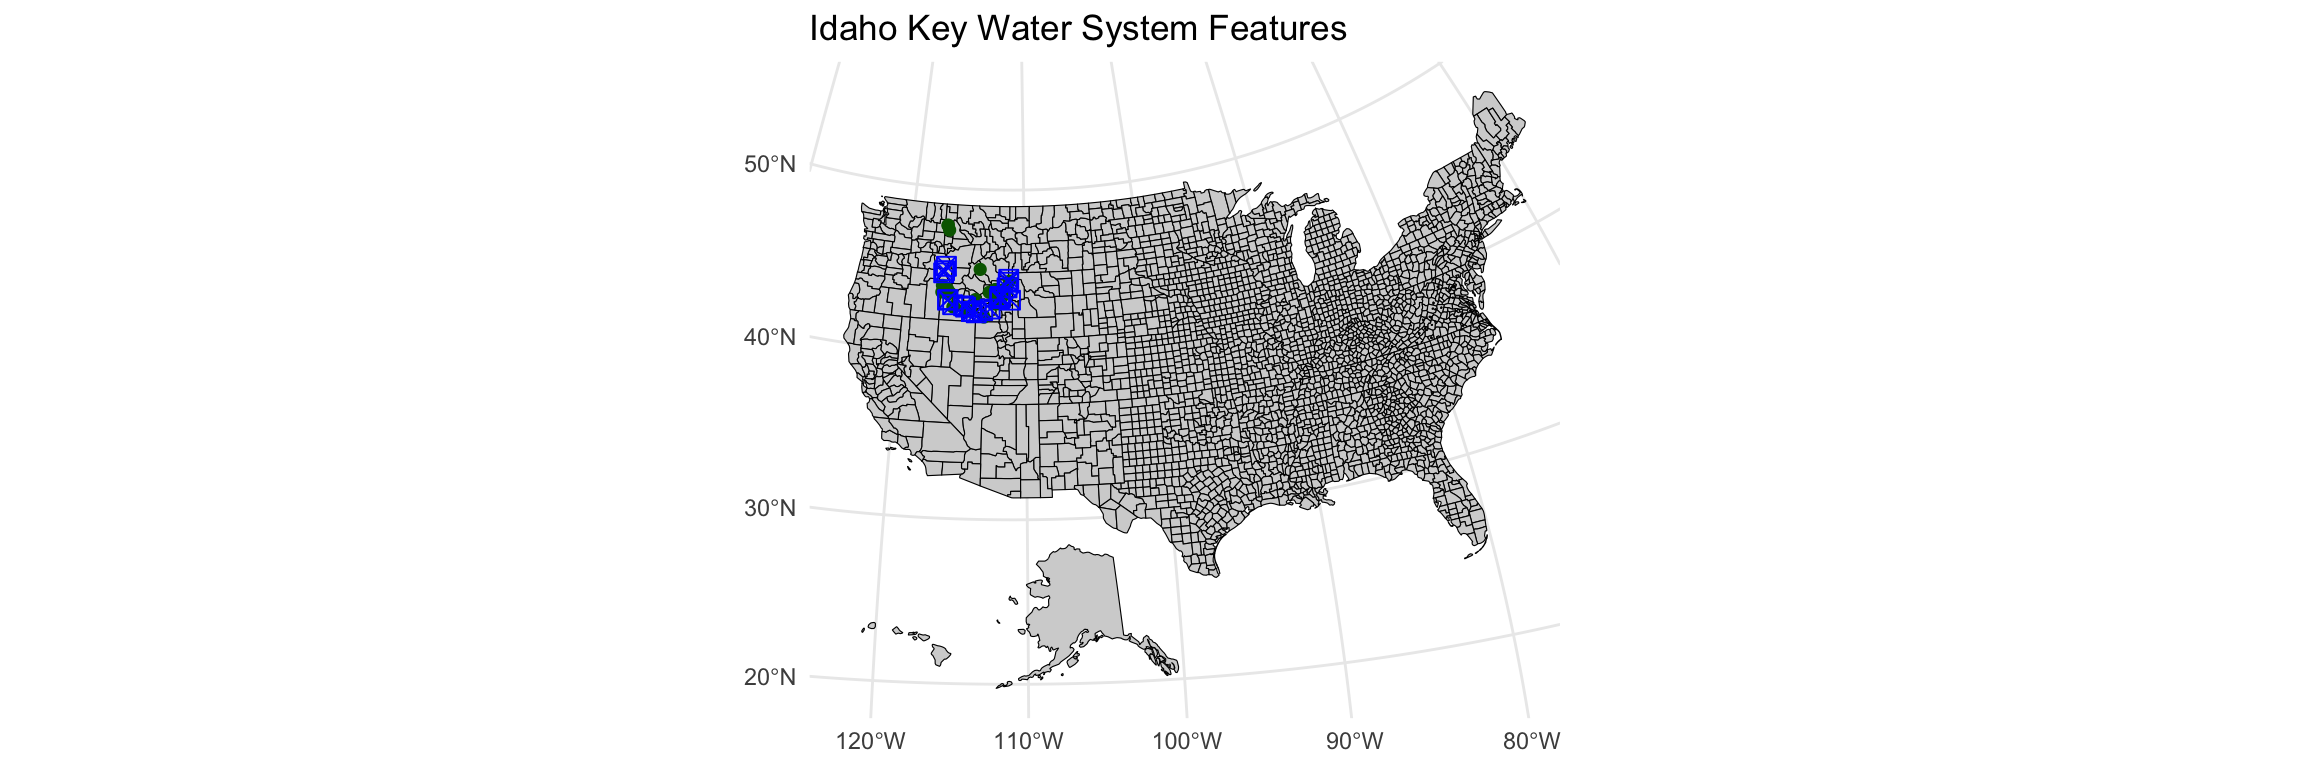
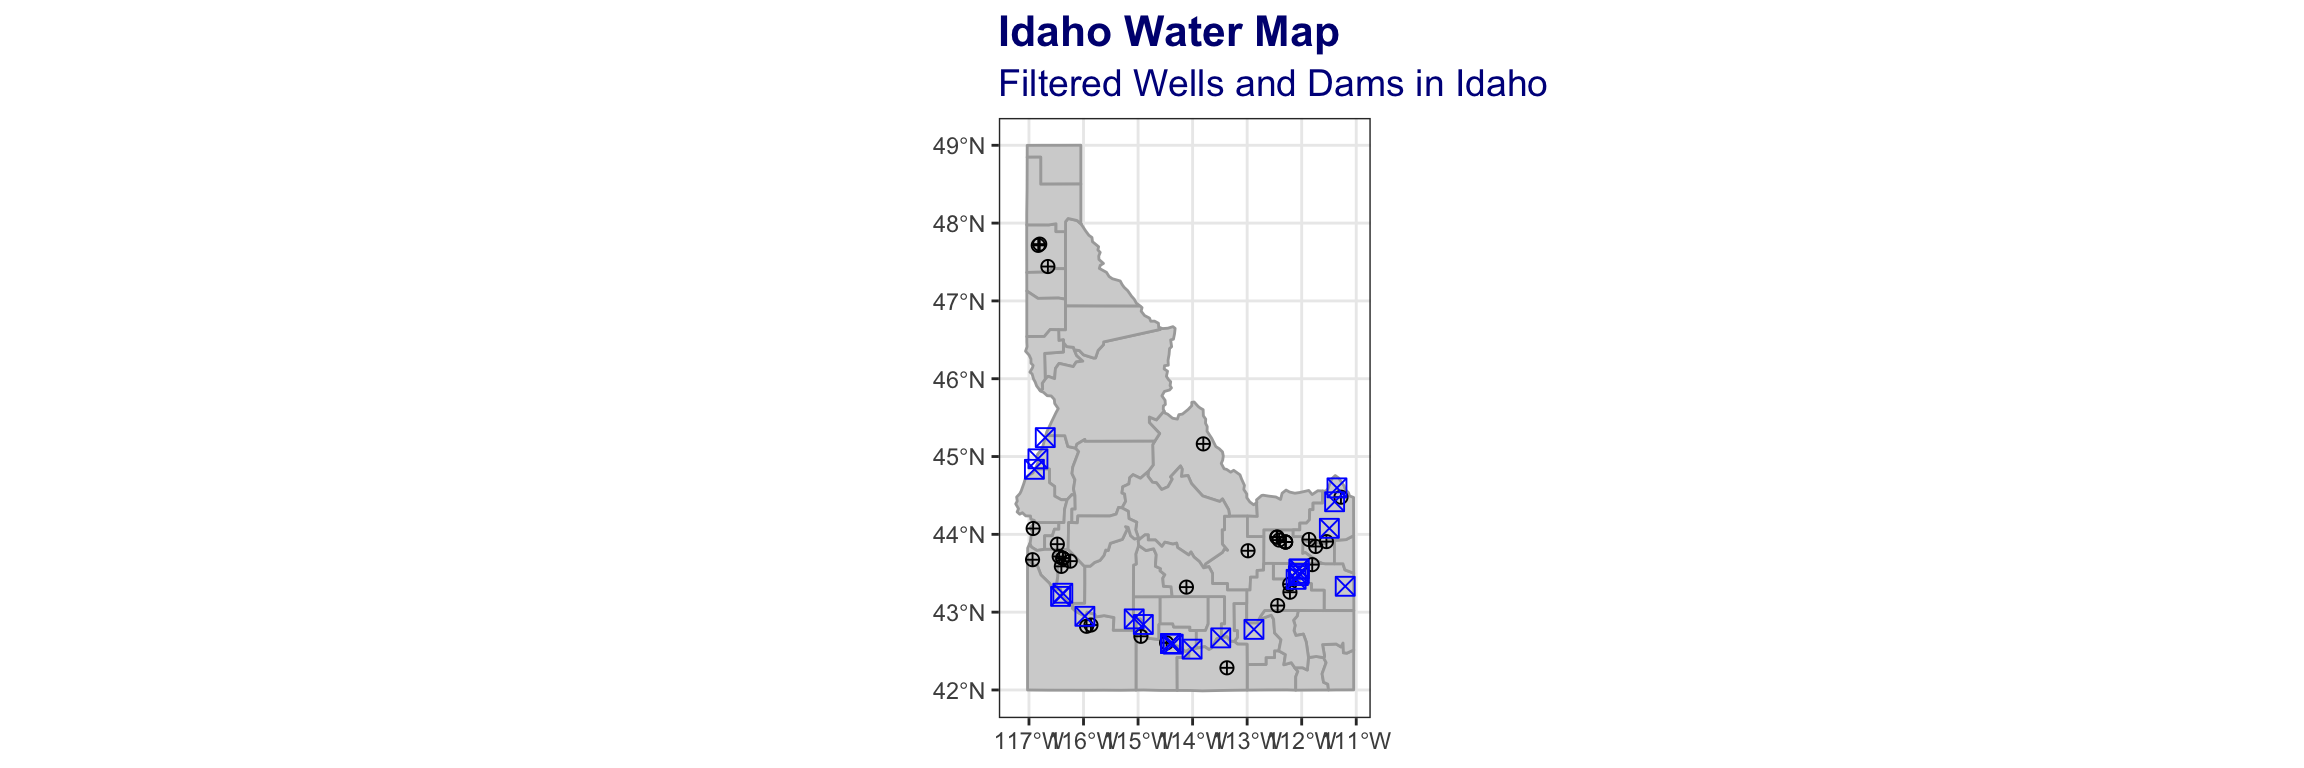
Add

diff --git a/week_08/W08 Task - Idaho Water.html b/week_08/W08 Task - Idaho Water.html
@@ -7,7 +7,7 @@
 <meta name="viewport" content="width=device-width, initial-scale=1.0, user-scalable=yes">
 
 <meta name="author" content="Scott Townsend">
-<meta name="dcterms.date" content="2024-11-07">
+<meta name="dcterms.date" content="2024-11-12">
 
 <title>W08 Task - Idaho Water</title>
 <style>
@@ -98,7 +98,7 @@ pre > code.sourceCode > span > a:first-child::before { text-decoration: underlin
     <div>
     <div class="quarto-title-meta-heading">Published</div>
     <div class="quarto-title-meta-contents">
-      <p class="date">November 7, 2024</p>
+      <p class="date">November 12, 2024</p>
     </div>
   </div>
   
@@ -131,19 +131,16 @@ pre > code.sourceCode > span > a:first-child::before { text-decoration: underlin
 <summary>Code</summary>
 <div class="sourceCode cell-code" id="cb2"><pre class="sourceCode numberSource r number-lines code-with-copy"><code class="sourceCode r"><span id="cb2-1"><a href="#cb2-1"></a>url1 <span class="ot">&lt;-</span> <span class="st">"https://byuistats.github.io/M335/data/Wells.zip"</span></span>
 <span id="cb2-2"><a href="#cb2-2"></a>url2 <span class="ot">&lt;-</span> <span class="st">"https://byuistats.github.io/M335/data/Idaho_Dams.zip"</span></span>
-<span id="cb2-3"><a href="#cb2-3"></a>url3 <span class="ot">&lt;-</span> <span class="st">"https://byuistats.github.io/M335/data/water.zip"</span></span>
-<span id="cb2-4"><a href="#cb2-4"></a>url4 <span class="ot">&lt;-</span> <span class="st">"https://byuistats.github.io/M335/data/shp.zip"</span></span>
-<span id="cb2-5"><a href="#cb2-5"></a></span>
-<span id="cb2-6"><a href="#cb2-6"></a>temp_dir <span class="ot">&lt;-</span> <span class="fu">tempdir</span>()</span>
-<span id="cb2-7"><a href="#cb2-7"></a></span>
-<span id="cb2-8"><a href="#cb2-8"></a>temp_zip <span class="ot">&lt;-</span> <span class="fu">file.path</span>(temp_dir, <span class="st">"Wells.zip"</span>)</span>
-<span id="cb2-9"><a href="#cb2-9"></a><span class="fu">download.file</span>(url1, temp_zip, <span class="at">mode =</span> <span class="st">"wb"</span>)</span>
-<span id="cb2-10"><a href="#cb2-10"></a><span class="fu">unzip</span>(temp_zip, <span class="at">exdir =</span> temp_dir)</span>
-<span id="cb2-11"><a href="#cb2-11"></a>wells_data <span class="ot">&lt;-</span> <span class="fu">st_read</span>(<span class="fu">file.path</span>(temp_dir, <span class="st">"Wells.shp"</span>))</span></code><button title="Copy to Clipboard" class="code-copy-button"><i class="bi"></i></button></pre></div>
+<span id="cb2-3"><a href="#cb2-3"></a>temp_dir <span class="ot">&lt;-</span> <span class="fu">tempdir</span>()</span>
+<span id="cb2-4"><a href="#cb2-4"></a></span>
+<span id="cb2-5"><a href="#cb2-5"></a>temp_zip <span class="ot">&lt;-</span> <span class="fu">file.path</span>(temp_dir, <span class="st">"Wells.zip"</span>)</span>
+<span id="cb2-6"><a href="#cb2-6"></a><span class="fu">download.file</span>(url1, temp_zip, <span class="at">mode =</span> <span class="st">"wb"</span>)</span>
+<span id="cb2-7"><a href="#cb2-7"></a><span class="fu">unzip</span>(temp_zip, <span class="at">exdir =</span> temp_dir)</span>
+<span id="cb2-8"><a href="#cb2-8"></a>wells_data <span class="ot">&lt;-</span> <span class="fu">st_read</span>(<span class="fu">file.path</span>(temp_dir, <span class="st">"Wells.shp"</span>))</span></code><button title="Copy to Clipboard" class="code-copy-button"><i class="bi"></i></button></pre></div>
 </details>
 <div class="cell-output cell-output-stdout">
 <pre><code>Reading layer `Wells' from data source 
-  `/private/var/folders/zs/zycd14f96ks5gpx0bsb97xtr0000gn/T/RtmplfTWnP/Wells.shp' 
+  `/private/var/folders/zs/zycd14f96ks5gpx0bsb97xtr0000gn/T/RtmpWrX1kQ/Wells.shp' 
   using driver `ESRI Shapefile'
 Simple feature collection with 195091 features and 33 fields
 Geometry type: POINT
@@ -160,7 +157,7 @@ Geodetic CRS:  WGS 84</code></pre>
 </details>
 <div class="cell-output cell-output-stdout">
 <pre><code>Reading layer `Dam_Safety' from data source 
-  `/private/var/folders/zs/zycd14f96ks5gpx0bsb97xtr0000gn/T/RtmplfTWnP/Dam_Safety.shp' 
+  `/private/var/folders/zs/zycd14f96ks5gpx0bsb97xtr0000gn/T/RtmpWrX1kQ/Dam_Safety.shp' 
   using driver `ESRI Shapefile'
 Simple feature collection with 1127 features and 23 fields
 Geometry type: POINT
@@ -170,46 +167,10 @@ Geodetic CRS:  WGS 84</code></pre>
 </div>
 <details class="code-fold">
 <summary>Code</summary>
-<div class="sourceCode cell-code" id="cb6"><pre class="sourceCode numberSource r number-lines code-with-copy"><code class="sourceCode r"><span id="cb6-1"><a href="#cb6-1"></a>temp_zip <span class="ot">&lt;-</span> <span class="fu">file.path</span>(temp_dir, <span class="st">"water.zip"</span>)</span>
-<span id="cb6-2"><a href="#cb6-2"></a><span class="fu">download.file</span>(url3, temp_zip, <span class="at">mode =</span> <span class="st">"wb"</span>)</span>
-<span id="cb6-3"><a href="#cb6-3"></a><span class="fu">unzip</span>(temp_zip, <span class="at">exdir =</span> temp_dir)</span>
-<span id="cb6-4"><a href="#cb6-4"></a>water_data <span class="ot">&lt;-</span> <span class="fu">st_read</span>(<span class="fu">file.path</span>(temp_dir, <span class="st">"hyd250.shp"</span>))</span></code><button title="Copy to Clipboard" class="code-copy-button"><i class="bi"></i></button></pre></div>
-</details>
-<div class="cell-output cell-output-stdout">
-<pre><code>Reading layer `hyd250' from data source 
-  `/private/var/folders/zs/zycd14f96ks5gpx0bsb97xtr0000gn/T/RtmplfTWnP/hyd250.shp' 
-  using driver `ESRI Shapefile'
-Simple feature collection with 30050 features and 26 fields
-Geometry type: LINESTRING
-Dimension:     XY
-Bounding box:  xmin: 2241685 ymin: 1198722 xmax: 2743850 ymax: 1981814
-Projected CRS: NAD83 / Idaho Transverse Mercator</code></pre>
-</div>
-<details class="code-fold">
-<summary>Code</summary>
-<div class="sourceCode cell-code" id="cb8"><pre class="sourceCode numberSource r number-lines code-with-copy"><code class="sourceCode r"><span id="cb8-1"><a href="#cb8-1"></a>temp_zip <span class="ot">&lt;-</span> <span class="fu">file.path</span>(temp_dir, <span class="st">"shp.zip"</span>)</span>
-<span id="cb8-2"><a href="#cb8-2"></a><span class="fu">download.file</span>(url4, temp_zip, <span class="at">mode =</span> <span class="st">"wb"</span>)</span>
-<span id="cb8-3"><a href="#cb8-3"></a><span class="fu">unzip</span>(temp_zip, <span class="at">exdir =</span> temp_dir)</span>
-<span id="cb8-4"><a href="#cb8-4"></a>county_data <span class="ot">&lt;-</span> <span class="fu">st_read</span>(<span class="fu">file.path</span>(temp_dir, <span class="st">"County-AK-HI-Moved-USA-Map.shp"</span>))</span></code><button title="Copy to Clipboard" class="code-copy-button"><i class="bi"></i></button></pre></div>
-</details>
-<div class="cell-output cell-output-stdout">
-<pre><code>Reading layer `County-AK-HI-Moved-USA-Map' from data source 
-  `/private/var/folders/zs/zycd14f96ks5gpx0bsb97xtr0000gn/T/RtmplfTWnP/County-AK-HI-Moved-USA-Map.shp' 
-  using driver `ESRI Shapefile'
-Simple feature collection with 3115 features and 15 fields
-Geometry type: MULTIPOLYGON
-Dimension:     XY
-Bounding box:  xmin: -2573301 ymin: -1889441 xmax: 2256474 ymax: 1565782
-Projected CRS: Albers</code></pre>
-</div>
-<details class="code-fold">
-<summary>Code</summary>
-<div class="sourceCode cell-code" id="cb10"><pre class="sourceCode numberSource r number-lines code-with-copy"><code class="sourceCode r"><span id="cb10-1"><a href="#cb10-1"></a>wells_filtered <span class="ot">&lt;-</span> wells_data <span class="sc">%&gt;%</span> <span class="fu">filter</span>(Production <span class="sc">&gt;</span> <span class="dv">5000</span>)</span>
-<span id="cb10-2"><a href="#cb10-2"></a>dams_filtered <span class="ot">&lt;-</span> Idaho_Dams_data <span class="sc">%&gt;%</span> <span class="fu">filter</span>(SurfaceAre <span class="sc">&gt;</span> <span class="dv">50</span>, Source <span class="sc">%in%</span> <span class="fu">c</span>(<span class="st">"SNAKE RIVER"</span>, <span class="st">"HENRYS FORK"</span>))</span>
-<span id="cb10-3"><a href="#cb10-3"></a></span>
-<span id="cb10-4"><a href="#cb10-4"></a>county_proj <span class="ot">&lt;-</span> <span class="fu">st_transform</span>(county_data, <span class="at">crs =</span> <span class="dv">26912</span>)</span>
-<span id="cb10-5"><a href="#cb10-5"></a>wells_proj <span class="ot">&lt;-</span> <span class="fu">st_transform</span>(wells_filtered, <span class="at">crs =</span> <span class="dv">26912</span>)</span>
-<span id="cb10-6"><a href="#cb10-6"></a>dams_proj <span class="ot">&lt;-</span> <span class="fu">st_transform</span>(dams_filtered, <span class="at">crs =</span> <span class="dv">26912</span>)</span></code><button title="Copy to Clipboard" class="code-copy-button"><i class="bi"></i></button></pre></div>
+<div class="sourceCode cell-code" id="cb6"><pre class="sourceCode numberSource r number-lines code-with-copy"><code class="sourceCode r"><span id="cb6-1"><a href="#cb6-1"></a>wells_filtered <span class="ot">&lt;-</span> wells_data <span class="sc">%&gt;%</span> <span class="fu">filter</span>(Production <span class="sc">&gt;</span> <span class="dv">5000</span>)</span>
+<span id="cb6-2"><a href="#cb6-2"></a>dams_filtered <span class="ot">&lt;-</span> Idaho_Dams_data <span class="sc">%&gt;%</span> <span class="fu">filter</span>(SurfaceAre <span class="sc">&gt;</span> <span class="dv">50</span>, Source <span class="sc">%in%</span> <span class="fu">c</span>(<span class="st">"SNAKE RIVER"</span>, <span class="st">"HENRYS FORK"</span>))</span>
+<span id="cb6-3"><a href="#cb6-3"></a></span>
+<span id="cb6-4"><a href="#cb6-4"></a>ID_counties <span class="ot">&lt;-</span> USAboundaries<span class="sc">::</span><span class="fu">us_counties</span>(<span class="at">states =</span> <span class="st">"Idaho"</span>)</span></code><button title="Copy to Clipboard" class="code-copy-button"><i class="bi"></i></button></pre></div>
 </details>
 </div>
 </section>
@@ -218,14 +179,16 @@ Projected CRS: Albers</code></pre>
 <div class="cell">
 <details class="code-fold">
 <summary>Code</summary>
-<div class="sourceCode cell-code" id="cb11"><pre class="sourceCode numberSource r number-lines code-with-copy"><code class="sourceCode r"><span id="cb11-1"><a href="#cb11-1"></a><span class="fu">ggplot</span>() <span class="sc">+</span></span>
-<span id="cb11-2"><a href="#cb11-2"></a>  <span class="fu">geom_sf</span>(<span class="at">data =</span> county_proj, <span class="at">fill =</span> <span class="st">"lightgrey"</span>, <span class="at">color =</span> <span class="st">"black"</span>) <span class="sc">+</span></span>
-<span id="cb11-3"><a href="#cb11-3"></a>  <span class="fu">geom_sf</span>(<span class="at">data =</span> wells_proj, <span class="at">color =</span> <span class="st">"darkgreen"</span>, <span class="at">size =</span> <span class="dv">2</span>, <span class="at">shape =</span> <span class="dv">16</span>) <span class="sc">+</span></span>
-<span id="cb11-4"><a href="#cb11-4"></a>  <span class="fu">geom_sf</span>(<span class="at">data =</span> dams_proj, <span class="at">color =</span> <span class="st">"blue"</span>, <span class="at">size =</span> <span class="dv">3</span>, <span class="at">shape =</span> <span class="dv">7</span>, <span class="at">linewidth =</span> <span class="dv">2</span>) <span class="sc">+</span></span>
-<span id="cb11-5"><a href="#cb11-5"></a>  <span class="fu">labs</span>(</span>
-<span id="cb11-6"><a href="#cb11-6"></a>    <span class="at">title =</span> <span class="st">"Idaho Key Water System Features"</span>,</span>
-<span id="cb11-7"><a href="#cb11-7"></a>  ) <span class="sc">+</span></span>
-<span id="cb11-8"><a href="#cb11-8"></a>  <span class="fu">theme_minimal</span>()</span></code><button title="Copy to Clipboard" class="code-copy-button"><i class="bi"></i></button></pre></div>
+<div class="sourceCode cell-code" id="cb7"><pre class="sourceCode numberSource r number-lines code-with-copy"><code class="sourceCode r"><span id="cb7-1"><a href="#cb7-1"></a><span class="fu">ggplot</span>() <span class="sc">+</span></span>
+<span id="cb7-2"><a href="#cb7-2"></a>  <span class="fu">geom_sf</span>(<span class="at">data =</span> ID_counties, <span class="at">fill =</span> <span class="st">"lightgrey"</span>, <span class="at">color =</span> <span class="st">"darkgrey"</span>, <span class="at">linewidth =</span> <span class="fl">0.5</span>) <span class="sc">+</span></span>
+<span id="cb7-3"><a href="#cb7-3"></a>  <span class="fu">geom_sf</span>(<span class="at">data =</span> wells_filtered, <span class="at">color =</span> <span class="st">"black"</span>, <span class="at">size =</span> <span class="dv">2</span>, <span class="at">shape =</span> <span class="dv">10</span>) <span class="sc">+</span></span>
+<span id="cb7-4"><a href="#cb7-4"></a>  <span class="fu">geom_sf</span>(<span class="at">data =</span> dams_filtered, <span class="at">color =</span> <span class="st">"blue"</span>, <span class="at">size =</span> <span class="dv">3</span>, <span class="at">shape =</span> <span class="dv">7</span>, <span class="at">linewidth =</span> <span class="dv">2</span>) <span class="sc">+</span></span>
+<span id="cb7-5"><a href="#cb7-5"></a>  <span class="fu">theme_bw</span>() <span class="sc">+</span></span>
+<span id="cb7-6"><a href="#cb7-6"></a>  <span class="fu">labs</span>(<span class="at">title =</span> <span class="st">"Idaho Water Map"</span>, <span class="at">subtitle =</span> <span class="st">"Filtered Wells and Dams in Idaho"</span>) <span class="sc">+</span></span>
+<span id="cb7-7"><a href="#cb7-7"></a>  <span class="fu">theme</span>(</span>
+<span id="cb7-8"><a href="#cb7-8"></a>    <span class="at">plot.title =</span> <span class="fu">element_text</span>(<span class="at">size =</span> <span class="dv">16</span>, <span class="at">face =</span> <span class="st">"bold"</span>, <span class="at">color =</span> <span class="st">"navyblue"</span>),</span>
+<span id="cb7-9"><a href="#cb7-9"></a>    <span class="at">plot.subtitle =</span> <span class="fu">element_text</span>(<span class="at">size =</span> <span class="dv">14</span>, <span class="at">color =</span> <span class="st">"darkblue"</span>)</span>
+<span id="cb7-10"><a href="#cb7-10"></a>  )</span></code><button title="Copy to Clipboard" class="code-copy-button"><i class="bi"></i></button></pre></div>
 </details>
 <div class="cell-output-display">
 <div>
@@ -234,10 +197,6 @@ Projected CRS: Albers</code></pre>
 </figure>
 </div>
 </div>
-<details class="code-fold">
-<summary>Code</summary>
-<div class="sourceCode cell-code" id="cb12"><pre class="sourceCode numberSource r number-lines code-with-copy"><code class="sourceCode r"><span id="cb12-1"><a href="#cb12-1"></a><span class="fu">ggsave</span>(<span class="st">"Idaho_Water_System_Map.png"</span>, <span class="at">width =</span> <span class="dv">12</span>, <span class="at">height =</span> <span class="dv">8</span>)</span></code><button title="Copy to Clipboard" class="code-copy-button"><i class="bi"></i></button></pre></div>
-</details>
 </div>
 </section>
 

diff --git a/week_08/W08 Task - Idaho Water.html.md b/week_08/W08 Task - Idaho Water.html.md
@@ -1,7 +1,7 @@
 ---
 title: "W08 Task - Idaho Water"
 author: "Scott Townsend"
-date: "November 07, 2024"
+date: "November 12, 2024"
 
 execute:
   keep-md: true
@@ -38,9 +38,6 @@ library(rio)
 ```{.r .cell-code}
 url1 <- "https://byuistats.github.io/M335/data/Wells.zip"
 url2 <- "https://byuistats.github.io/M335/data/Idaho_Dams.zip"
-url3 <- "https://byuistats.github.io/M335/data/water.zip"
-url4 <- "https://byuistats.github.io/M335/data/shp.zip"
-
 temp_dir <- tempdir()
 
 temp_zip <- file.path(temp_dir, "Wells.zip")
@@ -53,7 +50,7 @@ wells_data <- st_read(file.path(temp_dir, "Wells.shp"))
 
 ```
 Reading layer `Wells' from data source 
-  `/private/var/folders/zs/zycd14f96ks5gpx0bsb97xtr0000gn/T/RtmplfTWnP/Wells.shp' 
+  `/private/var/folders/zs/zycd14f96ks5gpx0bsb97xtr0000gn/T/RtmpWrX1kQ/Wells.shp' 
   using driver `ESRI Shapefile'
 Simple feature collection with 195091 features and 33 fields
 Geometry type: POINT
@@ -76,7 +73,7 @@ Idaho_Dams_data <- st_read(file.path(temp_dir, "Dam_Safety.shp"))
 
 ```
 Reading layer `Dam_Safety' from data source 
-  `/private/var/folders/zs/zycd14f96ks5gpx0bsb97xtr0000gn/T/RtmplfTWnP/Dam_Safety.shp' 
+  `/private/var/folders/zs/zycd14f96ks5gpx0bsb97xtr0000gn/T/RtmpWrX1kQ/Dam_Safety.shp' 
   using driver `ESRI Shapefile'
 Simple feature collection with 1127 features and 23 fields
 Geometry type: POINT
@@ -89,58 +86,10 @@ Geodetic CRS:  WGS 84
 :::
 
 ```{.r .cell-code}
-temp_zip <- file.path(temp_dir, "water.zip")
-download.file(url3, temp_zip, mode = "wb")
-unzip(temp_zip, exdir = temp_dir)
-water_data <- st_read(file.path(temp_dir, "hyd250.shp"))
-```
-
-::: {.cell-output .cell-output-stdout}
-
-```
-Reading layer `hyd250' from data source 
-  `/private/var/folders/zs/zycd14f96ks5gpx0bsb97xtr0000gn/T/RtmplfTWnP/hyd250.shp' 
-  using driver `ESRI Shapefile'
-Simple feature collection with 30050 features and 26 fields
-Geometry type: LINESTRING
-Dimension:     XY
-Bounding box:  xmin: 2241685 ymin: 1198722 xmax: 2743850 ymax: 1981814
-Projected CRS: NAD83 / Idaho Transverse Mercator
-```
-
-
-:::
-
-```{.r .cell-code}
-temp_zip <- file.path(temp_dir, "shp.zip")
-download.file(url4, temp_zip, mode = "wb")
-unzip(temp_zip, exdir = temp_dir)
-county_data <- st_read(file.path(temp_dir, "County-AK-HI-Moved-USA-Map.shp"))
-```
-
-::: {.cell-output .cell-output-stdout}
-
-```
-Reading layer `County-AK-HI-Moved-USA-Map' from data source 
-  `/private/var/folders/zs/zycd14f96ks5gpx0bsb97xtr0000gn/T/RtmplfTWnP/County-AK-HI-Moved-USA-Map.shp' 
-  using driver `ESRI Shapefile'
-Simple feature collection with 3115 features and 15 fields
-Geometry type: MULTIPOLYGON
-Dimension:     XY
-Bounding box:  xmin: -2573301 ymin: -1889441 xmax: 2256474 ymax: 1565782
-Projected CRS: Albers
-```
-
-
-:::
-
-```{.r .cell-code}
 wells_filtered <- wells_data %>% filter(Production > 5000)
 dams_filtered <- Idaho_Dams_data %>% filter(SurfaceAre > 50, Source %in% c("SNAKE RIVER", "HENRYS FORK"))
 
-county_proj <- st_transform(county_data, crs = 26912)
-wells_proj <- st_transform(wells_filtered, crs = 26912)
-dams_proj <- st_transform(dams_filtered, crs = 26912)
+ID_counties <- USAboundaries::us_counties(states = "Idaho")
 ```
 :::
 
@@ -152,20 +101,18 @@ dams_proj <- st_transform(dams_filtered, crs = 26912)
 
 ```{.r .cell-code}
 ggplot() +
-  geom_sf(data = county_proj, fill = "lightgrey", color = "black") +
-  geom_sf(data = wells_proj, color = "darkgreen", size = 2, shape = 16) +
-  geom_sf(data = dams_proj, color = "blue", size = 3, shape = 7, linewidth = 2) +
-  labs(
-    title = "Idaho Key Water System Features",
-  ) +
-  theme_minimal()
+  geom_sf(data = ID_counties, fill = "lightgrey", color = "darkgrey", linewidth = 0.5) +
+  geom_sf(data = wells_filtered, color = "black", size = 2, shape = 10) +
+  geom_sf(data = dams_filtered, color = "blue", size = 3, shape = 7, linewidth = 2) +
+  theme_bw() +
+  labs(title = "Idaho Water Map", subtitle = "Filtered Wells and Dams in Idaho") +
+  theme(
+    plot.title = element_text(size = 16, face = "bold", color = "navyblue"),
+    plot.subtitle = element_text(size = 14, color = "darkblue")
+  )
 ```
 
 ::: {.cell-output-display}
 ![](W08-Task---Idaho-Water_files/figure-html/unnamed-chunk-3-1.png){width=1152}
 :::
-
-```{.r .cell-code}
-ggsave("Idaho_Water_System_Map.png", width = 12, height = 8)
-```
 :::
